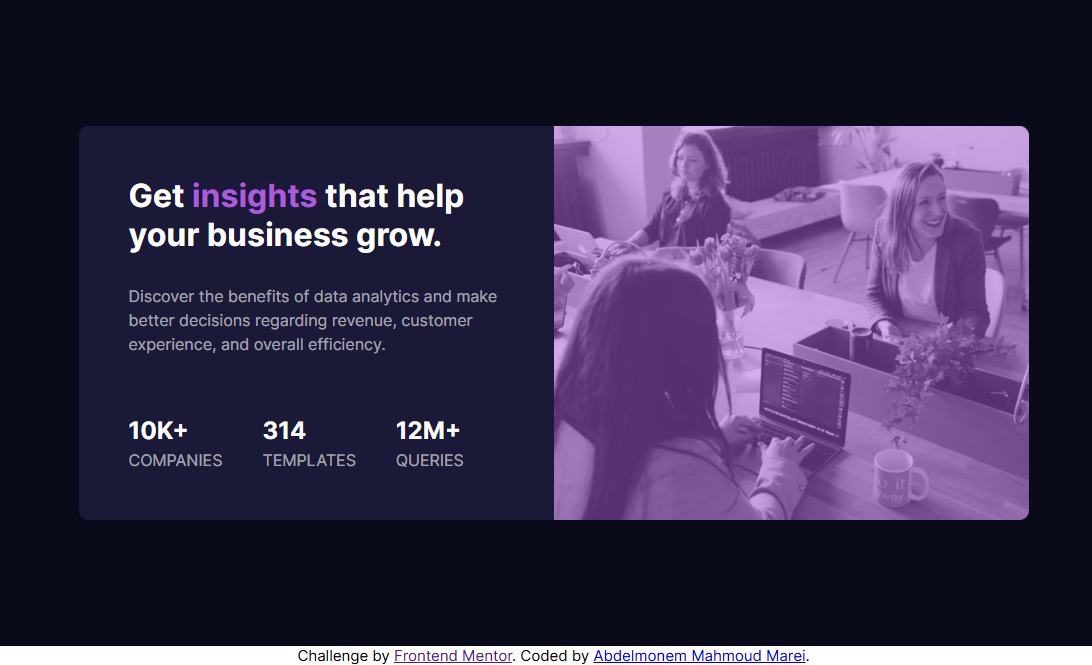
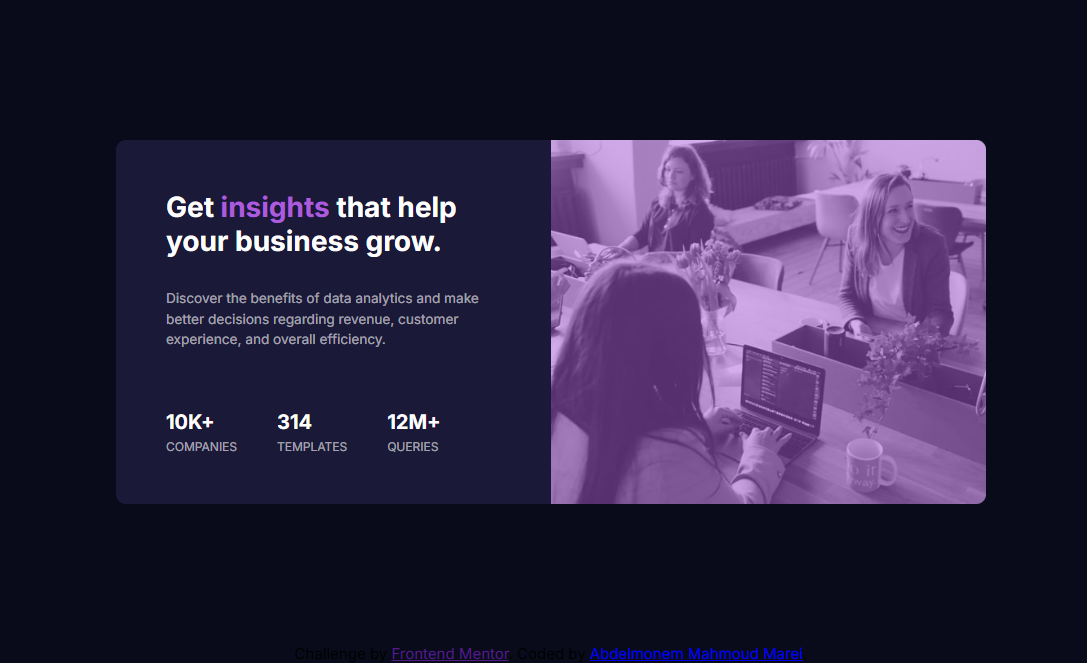
Update Some Exists Files
Update index.html , main.css  and add screenshots to live site

diff --git a/Newbie/stats-preview-card-component-main/css/main.css b/Newbie/stats-preview-card-component-main/css/main.css
@@ -18,7 +18,7 @@ body{
 }
 p{
     color:var(--Soft-blue);
-    font-size: 1rem;
+    font-size: 0.75rem;
 }
 /* -------------------------- */
 /* start styles */
@@ -38,13 +38,13 @@ p{
     -moz-border-radius: 10px;
     -ms-border-radius: 10px;
     -o-border-radius: 10px;
-    min-width: 950px;
+    min-width: 870px;
 }
 .container .stats-card .content{
     padding: 50px;
 }
 .container .stats-card .content h2{
-    font-size: 2rem;
+    font-size: 1.75rem;
     color: var(--White-MH-Stats);
     margin-bottom: 30px;
     max-width: 350px;
@@ -54,9 +54,9 @@ p{
 }
 .container .stats-card .content >p{
     color: var(--Slightly-transparent-white-SH);
-    font-size: 1rem;
+    font-size: 0.85rem;
     line-height: 1.5;
-    max-width: 750px;
+    max-width: 680px;
 }
 .container .stats-card .content >div{
     display: flex;
@@ -66,7 +66,7 @@ p{
     text-transform: uppercase;
 }
 .container .stats-card .content >div p:first-of-type{
-    font-size: 1.5rem;
+    font-size: 1.25rem;
     color: var(--White-MH-Stats);
     font-weight: 700;
     margin-bottom: 5px;
@@ -104,32 +104,32 @@ p{
     z-index: 2;
 }
 
-@media (max-width:991px) {
+@media (max-width:890px) {
     .container{
         padding: 40px 10px;
     }
     .container .stats-card{
         display: flex;
         flex-direction: column-reverse;
-        min-width: 320px;
+        min-width: 280px;
         text-align: center;
     }
     .container .stats-card .content{
         padding: 20px;
     }
     .container .stats-card .content >h2{
-        max-width: 320px;
+        max-width: 280px;
         margin-top: 20px;
     }
     .container .stats-card .content >p{
-        max-width: 275px;
+        max-width: 235px;
         margin: auto;
     }
     .container .stats-card .content >div{
         display: flex;
         flex-direction: column;
-        gap: 40px;
-        margin: 40px 0;
+        gap: 30px;
+        margin: 30px 0;
         color: var(--Slightly-transparent-white-SH);
         text-transform: uppercase;
     }

diff --git a/Newbie/stats-preview-card-component-main/index.html b/Newbie/stats-preview-card-component-main/index.html
@@ -39,7 +39,7 @@
       </div>
     </div>
   </div>
-  <div style="text-align: center;" class="attribution">
+  <div style="text-align: center; background-color:hsl(233, 47%, 7%);" class="attribution">
     Challenge by <a href="https://www.frontendmentor.io?ref=challenge" target="_blank">Frontend Mentor</a>. 
     Coded by <a href="#">Abdelmonem Mahmoud Marei</a>.
   </div>
